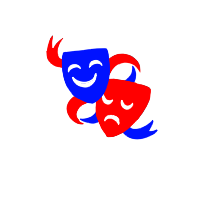
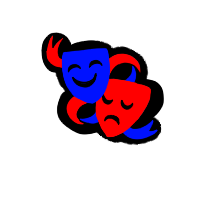
添加了魔法使

diff --git a/HSG/Scripts/Core/PatchManager.cs b/HSG/Scripts/Core/PatchManager.cs
@@ -26,67 +26,62 @@
  * ~~~~~~~~~~~~~~~~~~~~~~~~~~~~~~~~~~~~~~~~~~~
  */
 #region 全局引用
-global using System;
-global using System.Collections.Generic;
-global using System.Linq;
-global using System.Text;
-global using System.Threading.Tasks;
-global using System.Reflection;
-global using System.IO;
-global using System.Collections;
-
-
-global using Nebula.Game;
-global using Nebula.Utilities;
-global using Nebula.Modules;
-global using Nebula.Game.Statistics;
+global using BepInEx.Unity.IL2CPP.Utils.Collections;
+global using HalfSugarGift.Core;
+global using HalfSugarGift.Core.Patch;
+global using HalfSugarGift.Core.Settings;
+global using HarmonyLib;
+global using InnerNet;
 global using Nebula;
-global using Nebula.Roles.Abilities;
-global using Nebula.Roles;
-global using Nebula.Roles.Modifier;
-global using Nebula.Roles.Neutral;
-global using Nebula.Roles.Crewmate;
-global using Nebula.Roles.Impostor;
+global using Nebula.Behavior;
 global using Nebula.Documents;
+global using Nebula.Extensions;
+global using Nebula.Game;
+global using Nebula.Game.Statistics;
+global using Nebula.Modules;
 global using Nebula.Modules.ScriptComponents;
 global using Nebula.Player;
-global using Nebula.Behavior;
-global using Nebula.Extensions;
-
+global using Nebula.Roles;
+global using Nebula.Roles.Abilities;
+global using Nebula.Roles.Crewmate;
+global using Nebula.Roles.Impostor;
+global using Nebula.Roles.Modifier;
+global using Nebula.Roles.Neutral;
+global using Nebula.Utilities;
+global using System;
+global using System.Collections;
+global using System.Collections.Generic;
+global using System.IO;
+global using System.Linq;
+global using System.Reflection;
+global using System.Text;
+global using System.Threading.Tasks;
 global using UnityEngine;
-
+global using UnityEngine.Networking;
 global using Virial;
 global using Virial.Assignable;
 global using Virial.Attributes;
 global using Virial.Compat;
 global using Virial.Components;
 global using Virial.Configuration;
+global using Virial.DI;
 global using Virial.Events.Game;
 global using Virial.Events.Game.Meeting;
-global using Virial.Game;
-global using Virial.Runtime;
 global using Virial.Events.Player;
-global using Virial.Utilities;
+global using Virial.Game;
 global using Virial.Media;
-global using Virial.DI;
-global using GamePlayer = Virial.Game.Player;
-
-global using HalfSugarGift.Core;
-global using HalfSugarGift.Core.Patch;
-global using HalfSugarGift.Core.Settings;
-global using Citations = HalfSugarGift.Core.Citations;
-global using ColorHelper = HalfSugarGift.Core.Patch.ColorHelper;
-
-global using HarmonyLib;
-global using InnerNet;
-
-global using BepInEx.Unity.IL2CPP.Utils.Collections;
-
-global using UnityEngine.Networking;
+global using Virial.Runtime;
 global using Virial.Text;
+global using Virial.Utilities;
+global using Citations = HalfSugarGift.Core.Citations;
 global using Color = UnityEngine.Color;
-global using Vector3 = UnityEngine.Vector3;
+global using ColorHelper = HalfSugarGift.Core.Patch.ColorHelper;
+global using GamePlayer = Virial.Game.Player;
 global using Vector2 = UnityEngine.Vector2;
+global using Vector3 = UnityEngine.Vector3;
+using Nebula.Roles.Complex;
+using NebulaN.Roles.Modifier;
+using NebulaN.Roles.Neutral;
 #endregion
 
 namespace HalfSugarGift.Core.Patch;
@@ -105,7 +100,6 @@ static public class Cor
     static public Virial.Color MPCor = new(0.902f, 0.902f, 1f);
     static public Virial.Color Yellow = new(1f, 1f, 0f);
     static public Virial.Color LurkerCor = new(0.8f,0,0);
-    static public Virial.Color PurpleWitchJudge = new(0.45f, 0.1f, 0.55f);
 }
 public class State
 {
@@ -145,12 +139,6 @@ public static class Team
     /// </summary>
     public static readonly RoleTeam SpiritTeam = NebulaAPI.Preprocessor.CreateTeam("teams.spirit", new Virial.Color(0f, 0.1f, 0.4f), 0);
     public static readonly GameEnd SpiritWin = NebulaAPI.Preprocessor.CreateEnd("spiritWin", SpiritTeam.Color, 100);
-    /// <summary>
-    /// 魔女审判长阵营
-    /// </summary>
-    public static readonly RoleTeam WitchJudgeTeam = NebulaAPI.Preprocessor.CreateTeam("teams.witchJudge", new Virial.Color(0.45f, 0.1f, 0.55f), 0);
-    public static readonly GameEnd WitchJudgeWin = NebulaAPI.Preprocessor.CreateEnd("witchJudgeWin", WitchJudgeTeam.Color, 100);
-    public static readonly ExtraWin ExtraWitchJudgeWin = NebulaAPI.Preprocessor.CreateExtraWin("witchJudgeExtraWin", WitchJudgeTeam.Color);
 }
 #endregion
 #region PatchManager主类
@@ -255,28 +243,6 @@ public static partial class PatchManager
         UnityEngine.Color color = Palette.PlayerColors[colorId];
         return ColorUtility.ToHtmlStringRGB(color); 
     }
-
-    /// <summary>
-    /// 获取玩家当前颜色的本地化名称
-    /// </summary>
-    public static string GetPlayerColorName(GamePlayer player)
-    {
-        var pc = player.VanillaPlayer;
-        if (pc == null) return "白色";
-
-        int colorId = pc.Data.DefaultOutfit.ColorId;
-        try
-        {
-            var names = Palette.ColorNames;
-            if (names != null && colorId >= 0 && colorId < names.Length)
-            {
-                var name = DestroyableSingleton<TranslationController>.Instance.GetString(names[colorId]);
-                if (!string.IsNullOrEmpty(name)) return name;
-            }
-        }
-        catch { }
-        return $"玩家{colorId}";
-    }
 }
 
 
@@ -345,6 +311,23 @@ public static partial class PatchManager
         pc.SetName("System");
         HudManager.Instance.Chat.AddChat(pc, msg);
         pc.SetName(orig);
+    }
+
+    public static void SendLocalNotification(string msg)
+    {
+        var notifier = HudManager.Instance.Notifier;
+        var newMessage = GameObject.Instantiate<LobbyNotificationMessage>(
+            notifier.notificationMessageOrigin,
+            Vector3.zero, Quaternion.identity, notifier.transform);
+        newMessage.transform.localPosition = new Vector3(0f, 0f, -2f);
+        newMessage.SetUp(msg,
+            notifier.settingsChangeSprite,
+            notifier.settingsChangeColor,
+            (Action)(() => notifier.OnMessageDestroy(newMessage)));
+        notifier.ShiftMessages();
+        notifier.AddMessageToQueue(newMessage);
+        AmongUsLLImpl.SoundManagerInstance.PlaySoundImmediate(
+            notifier.settingsChangeSound, false, 1f, 1f, null);
     }
 
     public static void SendLocalNotification(string msg)

diff --git a/HSG/Scripts/Roles/Modifier/Weakness.cs b/HSG/Scripts/Roles/Modifier/Weakness.cs
@@ -1,44 +1,26 @@
 using HalfSugarGift.Roles.Impostor;
-using Nebula;
-using Nebula.Extensions;
 
 namespace HalfSugarGift.Roles.Modifier;
 
-/// <summary>
-/// 脆弱附加，由魔法师施加。执行任务或使用杀人技能时立即死亡。
-/// 仅魔法师可见灰色名字。
-/// 配置项已迁移至 Mage 类中。
-/// </summary>
 public class Weakness : DefinedAllocatableModifierTemplate, DefinedAllocatableModifier,
     RuntimeAssignableGenerator<RuntimeModifier>, HasCitation
 {
-    private Weakness() : base(
-        "weakness", "WK", new Virial.Color(0.5f, 0.8f, 1f),
-        []
-    )
-    { }
+    private Weakness() : base("weakness", "WK", new Virial.Color(0.5f, 0.8f, 1f), []) { }
 
     public Citation Citation => Citations.hvtXsvc_hsg;
     public static readonly Weakness MyRole = new();
     bool ISpawnable.IsSpawnable => false;
-
     public RuntimeModifier CreateInstance(GamePlayer player, int[] arguments) => new Instance(player);
 
     public class Instance : RuntimeAssignableTemplate, RuntimeModifier
     {
         public Instance(GamePlayer player) : base(player) { }
-
-        bool RuntimeAssignable.CanBeAwareAssignment => false; // 玩家不知情
+        bool RuntimeAssignable.CanBeAwareAssignment => false;
         DefinedModifier RuntimeModifier.Modifier => MyRole;
-
         private int _remainingRounds;
 
-        void RuntimeAssignable.OnActivated()
-        {
-            _remainingRounds = Mage.WeaknessExpiryRounds;
-        }
+        void RuntimeAssignable.OnActivated() { _remainingRounds = Mage.WeaknessExpiryRounds; }
 
-        // 完成任务时死亡
         [Local]
         void OnTaskComplete(PlayerTaskCompleteLocalEvent ev)
         {
@@ -46,7 +28,6 @@ public class Weakness : DefinedAllocatableModifierTemplate, DefinedAllocatableMo
             MyPlayer.Suicide(Mage.WeaknessState, EventDetail.Kill, KillParameter.NormalKill);
         }
 
-        // 使用杀人技能时死亡（延迟执行避免与当前杀流程冲突）
         [Local]
         void OnKillPlayer(PlayerKillPlayerEvent ev)
         {
@@ -59,33 +40,27 @@ public class Weakness : DefinedAllocatableModifierTemplate, DefinedAllocatableMo
             });
         }
 
-        // 使用管道技能时死亡（如工程师钻管道）
-        [OnlyMyPlayer]
-        [Local]
+        [OnlyMyPlayer][Local]
         void OnVentEnter(PlayerVentEnterEvent ev)
         {
             if (!AmOwner || MyPlayer.IsDead) return;
             MyPlayer.Suicide(Mage.WeaknessState, EventDetail.Kill, KillParameter.NormalKill);
         }
 
-        // 使用通用角色技能时死亡（覆盖 Nebula 自定义技能动作）
-        [OnlyMyPlayer]
-        [Local]
+        [OnlyMyPlayer][Local]
         void OnDoGameAction(PlayerDoGameActionEvent ev)
         {
             if (!AmOwner || MyPlayer.IsDead) return;
             MyPlayer.Suicide(Mage.WeaknessState, EventDetail.Kill, KillParameter.NormalKill);
         }
 
-        // 回合到期自动清除（仅当启用时）
         [Local]
         void OnMeetingEnd(MeetingEndEvent ev)
         {
             if (!AmOwner || MyPlayer.IsDead) return;
             if (!Mage.WeaknessEnableRoundExpiry) return;
             _remainingRounds--;
-            if (_remainingRounds <= 0)
-                MyPlayer.RemoveModifier(MyRole);
+            if (_remainingRounds <= 0) MyPlayer.RemoveModifier(MyRole);
         }
     }
 }

diff --git a/HSG/Scripts/Roles/crewmate/Wish.cs b/HSG/Scripts/Roles/crewmate/Wish.cs
@@ -1,4 +1,7 @@
-namespace NebulaN.Roles.crewmate;
+
+
+
+namespace NebulaN.Roles.crewmate;
 
 public class Wish : DefinedRoleTemplate, HasCitation, DefinedRole,
     RuntimeAssignableGenerator<RuntimeRole>,IAssignableDocument
@@ -133,7 +136,6 @@ public class Wish : DefinedRoleTemplate, HasCitation, DefinedRole,
                 if (suicide) { MyPlayer.Suicide(State.BrokenWish,null,KillParameter.NormalKill,null); }
                 button.StartCoolDown();
             };
-
         }
         [Local]
         private void PlayerMurderedEvent(PlayerMurderedEvent ev)

diff --git a/HSG/Scripts/Roles/crewmate/Dilemma.cs b/HSG/Scripts/Roles/crewmate/Dilemma.cs
@@ -30,6 +30,8 @@ public class Dilemma : DefinedRoleTemplate, DefinedRole, RuntimeAssignableGenera
     public RuntimeRole CreateInstance(GamePlayer player, int[] arguments) => new Instance(player);
     public static readonly Dilemma MyRole = new Dilemma();
 
+
+
     public Citation Citation => Citations.hvtXsvc_hsg;
     IEnumerable<AssignableDocumentImage> IAssignableDocument.GetDocumentImages()
     {

diff --git a/HSG/Scripts/Roles/Impostor/BeNothing.cs b/HSG/Scripts/Roles/Impostor/BeNothing.cs
@@ -50,7 +50,6 @@ public class BeNothing : DefinedRoleTemplate, HasCitation, DefinedRole, RuntimeA
     public class Instance : RuntimeAssignableTemplate, RuntimeRole
     {
         public Instance(GamePlayer player) : base(player) { }
-
         public DefinedRole Role => MyRole;
 
         public void OnActivated()